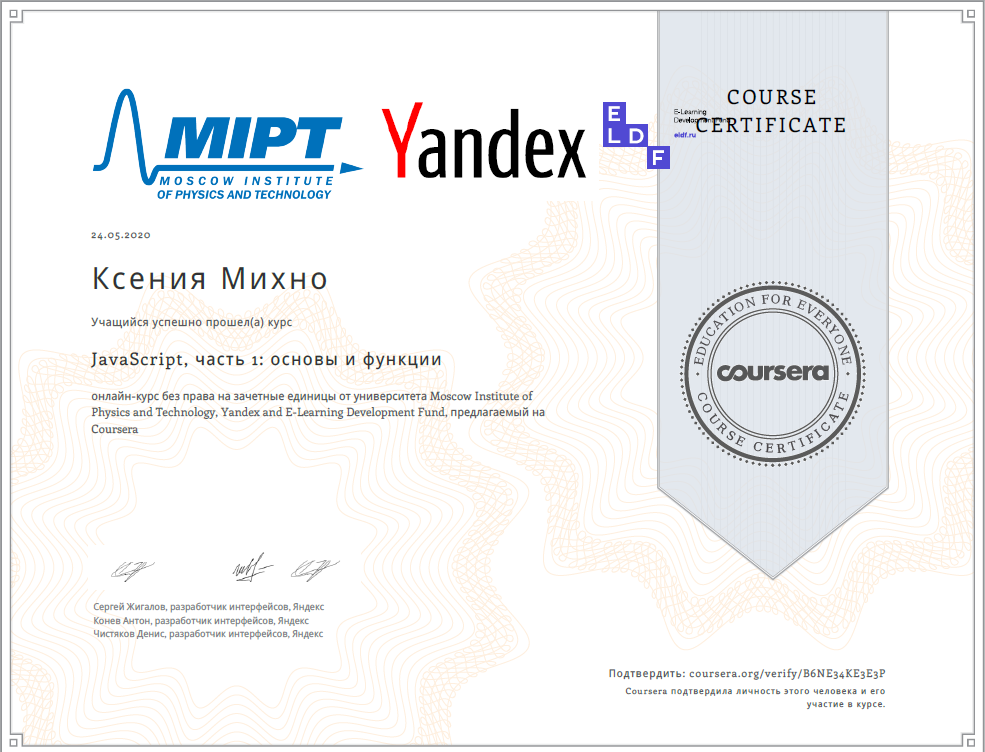
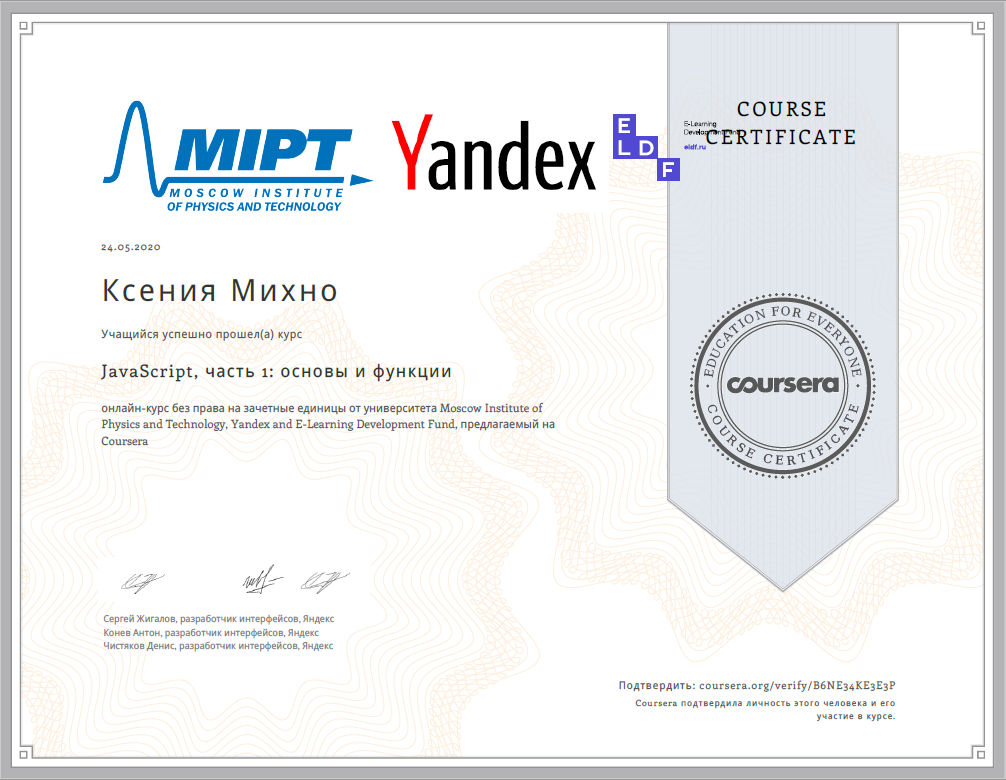
docs: add image certificate

diff --git a/cv.md b/cv.md
@@ -14,7 +14,7 @@
 
 * [HTML, CSS, and Javascript for Web Developers.](https://www.coursera.org/learn/html-css-javascript-for-web-developers)
 
-![Coursera course](/images/Coursera_HTML_CSS_JS.pdf)
+![Coursera course](/images/coursera_html_css_js.png)
 
 ## Skills
 * **C/C++**
